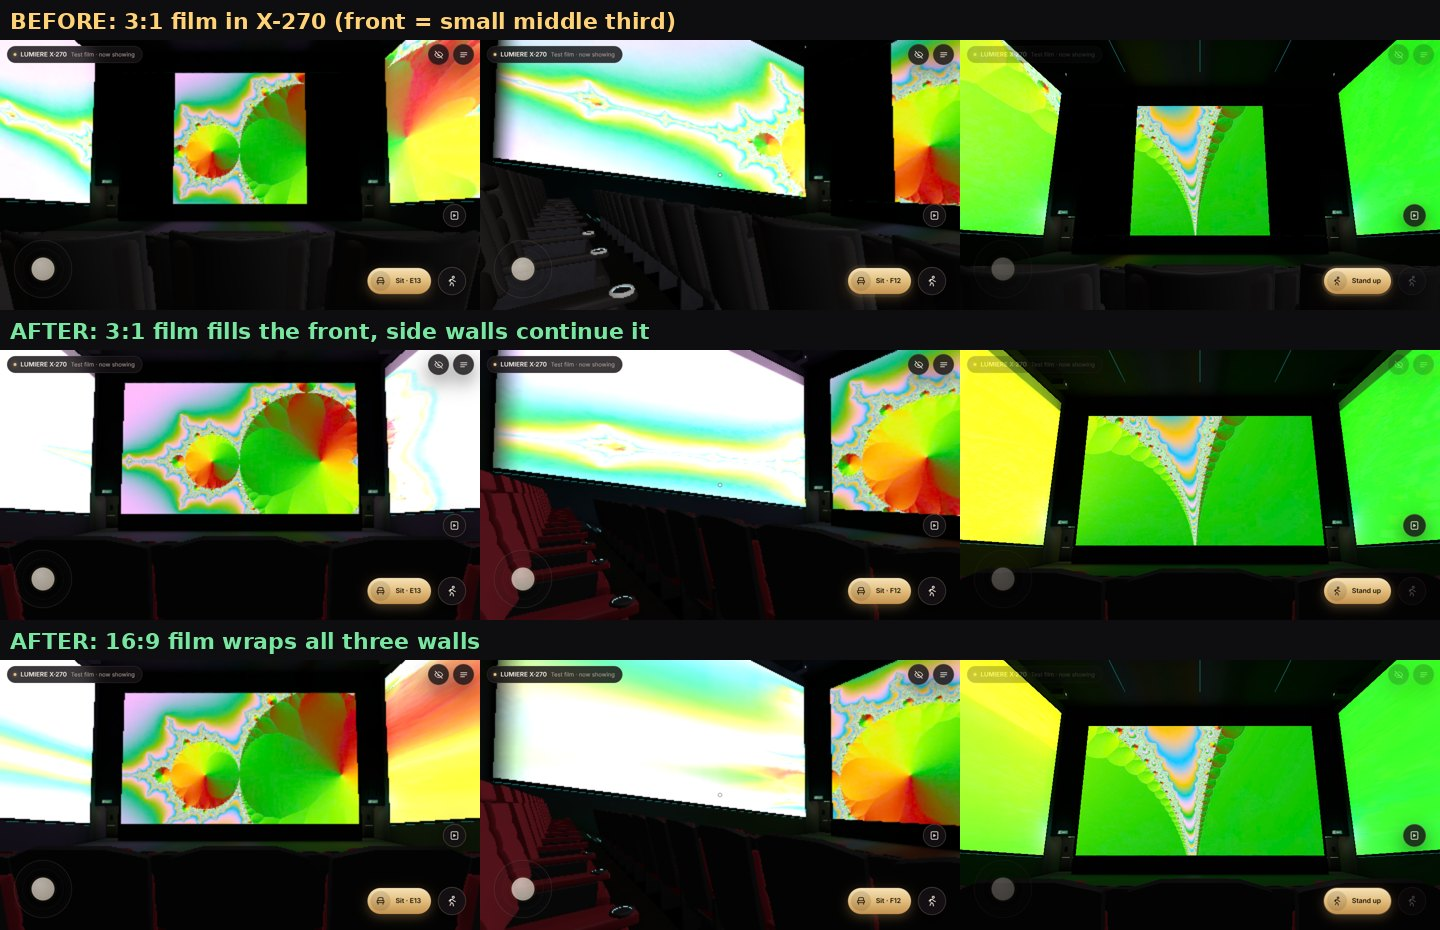
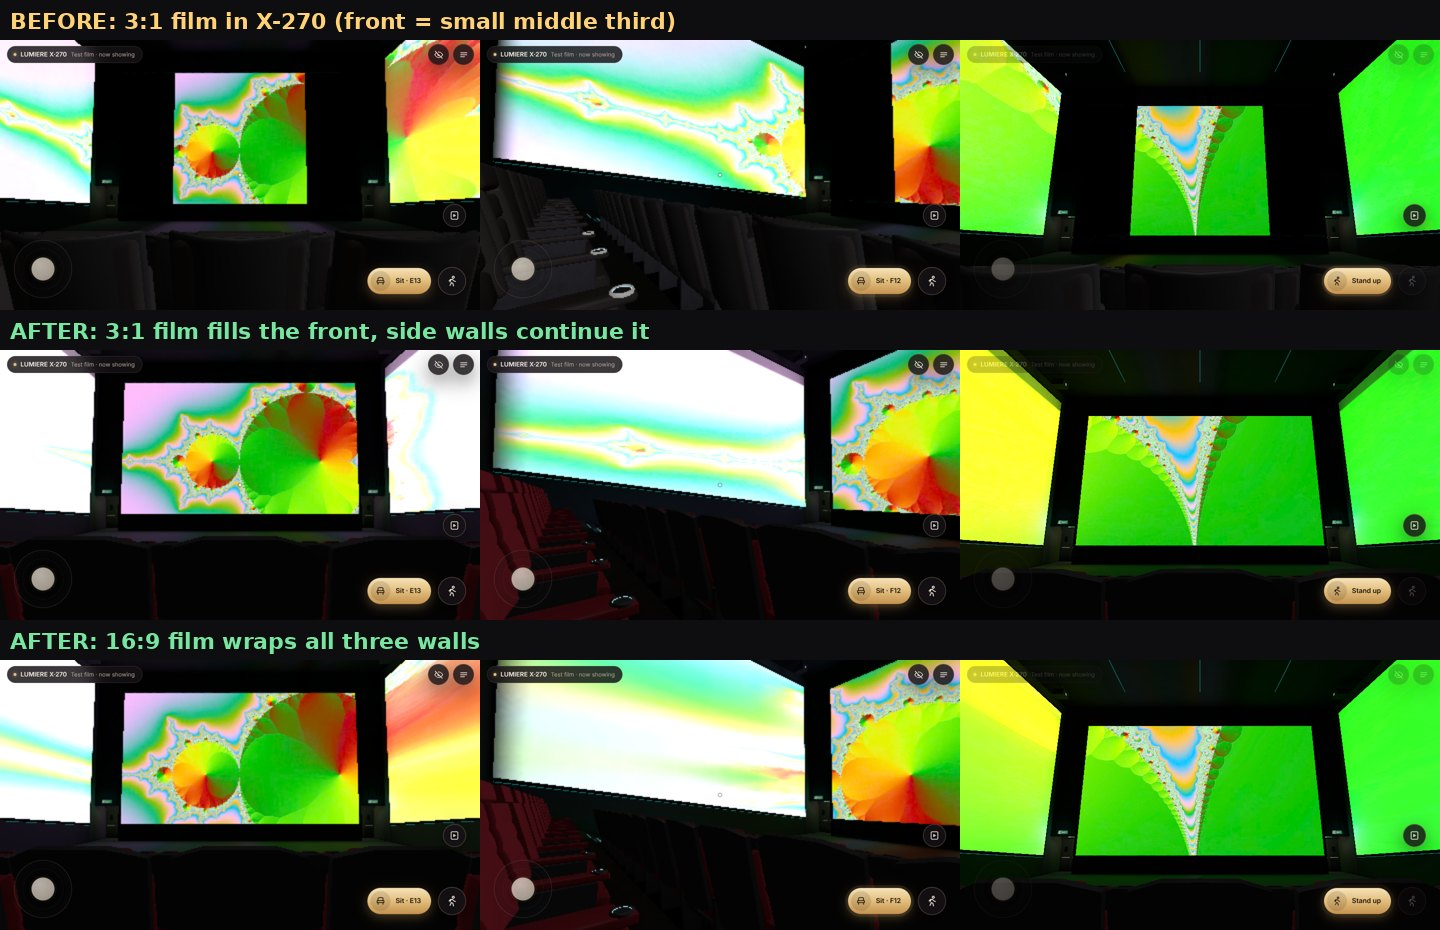
v9.2 halls: MAX seats in a readable navy leather (the darker tint read as black); renders redone at the shipped settings (side walls 0.6)
Claude-Session: https://claude.ai/code/session_01HheWmdFN8B9BkFe9Qc4dHs

diff --git a/www/js/world9.js b/www/js/world9.js
@@ -307,7 +307,7 @@ function dressRooms(world) {
 const FAMILY = { rocker: ['seat_rocker', 'arm_rocker'], recliner: ['seat_club', 'arm_club'], sofa: ['seat_club', 'arm_club'], pod: ['seat_club', 'arm_club'] };
 const familyOf = (h, kind) => (h.id === 'CLASSIC' && kind === 'rocker' ? ['seat_classic', 'arm_classic'] : FAMILY[kind]);
 // per-hall upholstery (v9.2): MAX midnight-blue leather (the large-format hall's colour), X-270 deep red (the ScreenX house colour), Curve dark cognac
-const SEAT_SWAP = { MAX: { leather_black: '#151c30' }, X270: { leather_black: '#3c0b11' }, CURVE: { leather_chocolate: '#1c100a' } };
+const SEAT_SWAP = { MAX: { leather_black: '#1e2846' }, X270: { leather_black: '#3c0b11' }, CURVE: { leather_chocolate: '#1c100a' } };
 const seatOver = (h) => { const sw = SEAT_SWAP[h.id]; if (!sw) return null; const o = {}; for (const k in sw) { const nm = named(k); if (nm) o[k] = { id: nm.id, tint: new THREE.Color(sw[k]).toArray() }; } return o; };
 function buildHall(world, h, room) {
   const mats = world.mats, U = room.U, L = room.lights, seats = hallSeats(h); seats.forEach((s, i) => { s.i = i; s.hallKey = h.key; });
